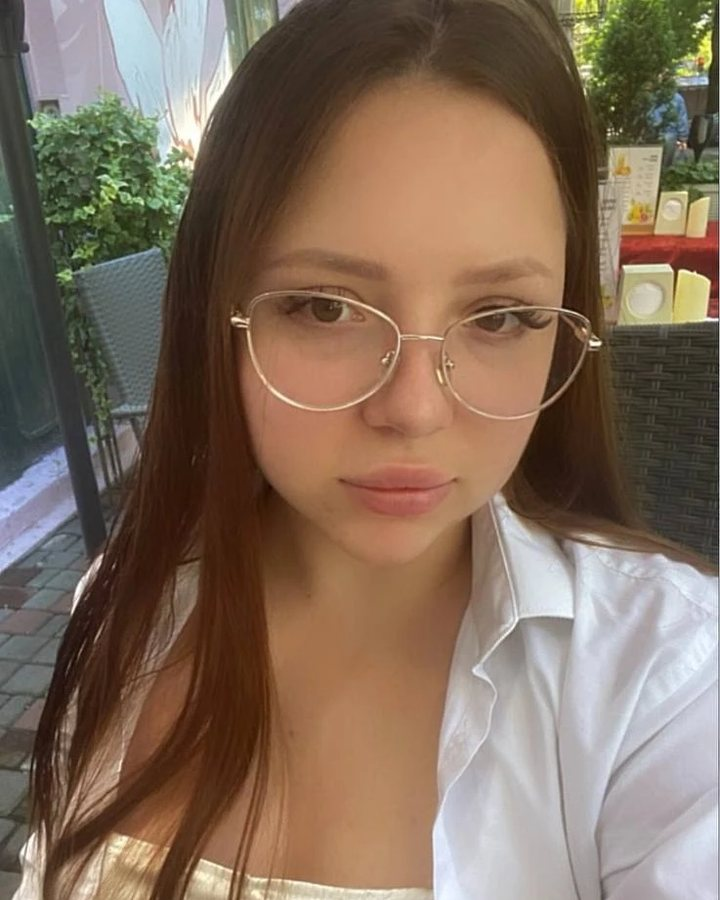
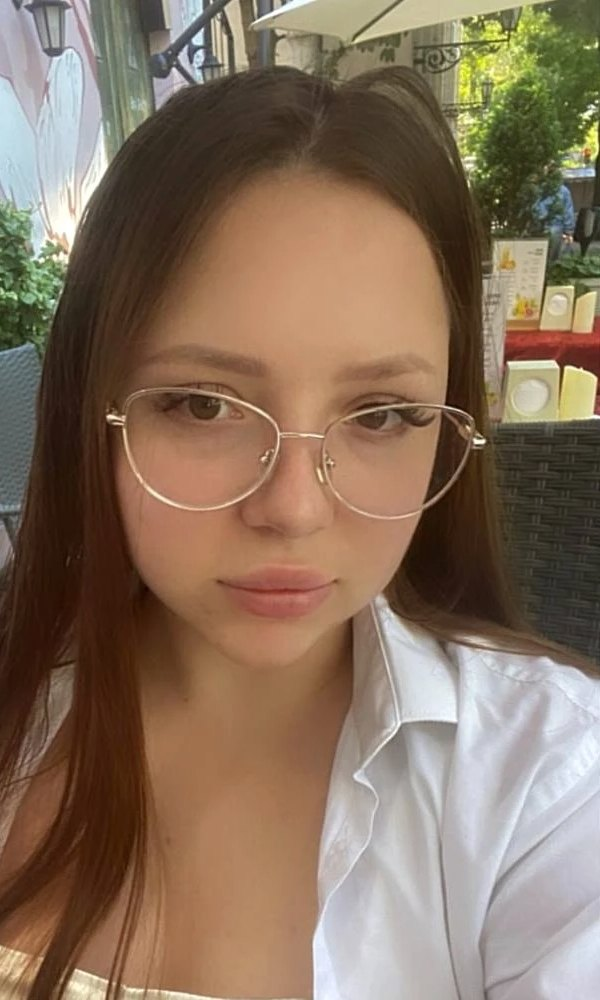
Recrop team photos with matched framing and tone
Claude-Session: https://claude.ai/code/session_01KaPVfr6GEKvCxvou8V3cPy

diff --git a/css/bot.css b/css/bot.css
@@ -124,3 +124,9 @@ details.pr th{color:var(--coral-l)}
 .promo{justify-self:start;font-size:12px;font-weight:800;letter-spacing:.1em;text-transform:uppercase;color:#0A0B12;background:var(--coral-l,#FF8A6A);border-radius:999px;padding:3px 10px}
 .two-price s{color:var(--dim);font-size:.85em;margin-left:4px}
 .person .ph:has(img){padding:0}
+/* Фото команди: однакове кадрування й тонування в гамі сайту */
+.person .ph:has(img){position:relative;overflow:hidden;background:#0E0F18}
+.person .ph img{object-position:50% 20%;filter:saturate(.9) contrast(1.04)}
+.person .ph:has(img)::after{content:"";position:absolute;inset:0;pointer-events:none;
+  background:linear-gradient(180deg,rgba(91,108,255,.10),rgba(10,11,18,0) 35%,rgba(10,11,18,0) 70%,rgba(255,106,69,.14)),linear-gradient(90deg,rgba(10,11,18,0) 75%,rgba(18,19,29,.55))}
+@media (max-width:560px){.person .ph:has(img){aspect-ratio:4/5;min-height:0}}
